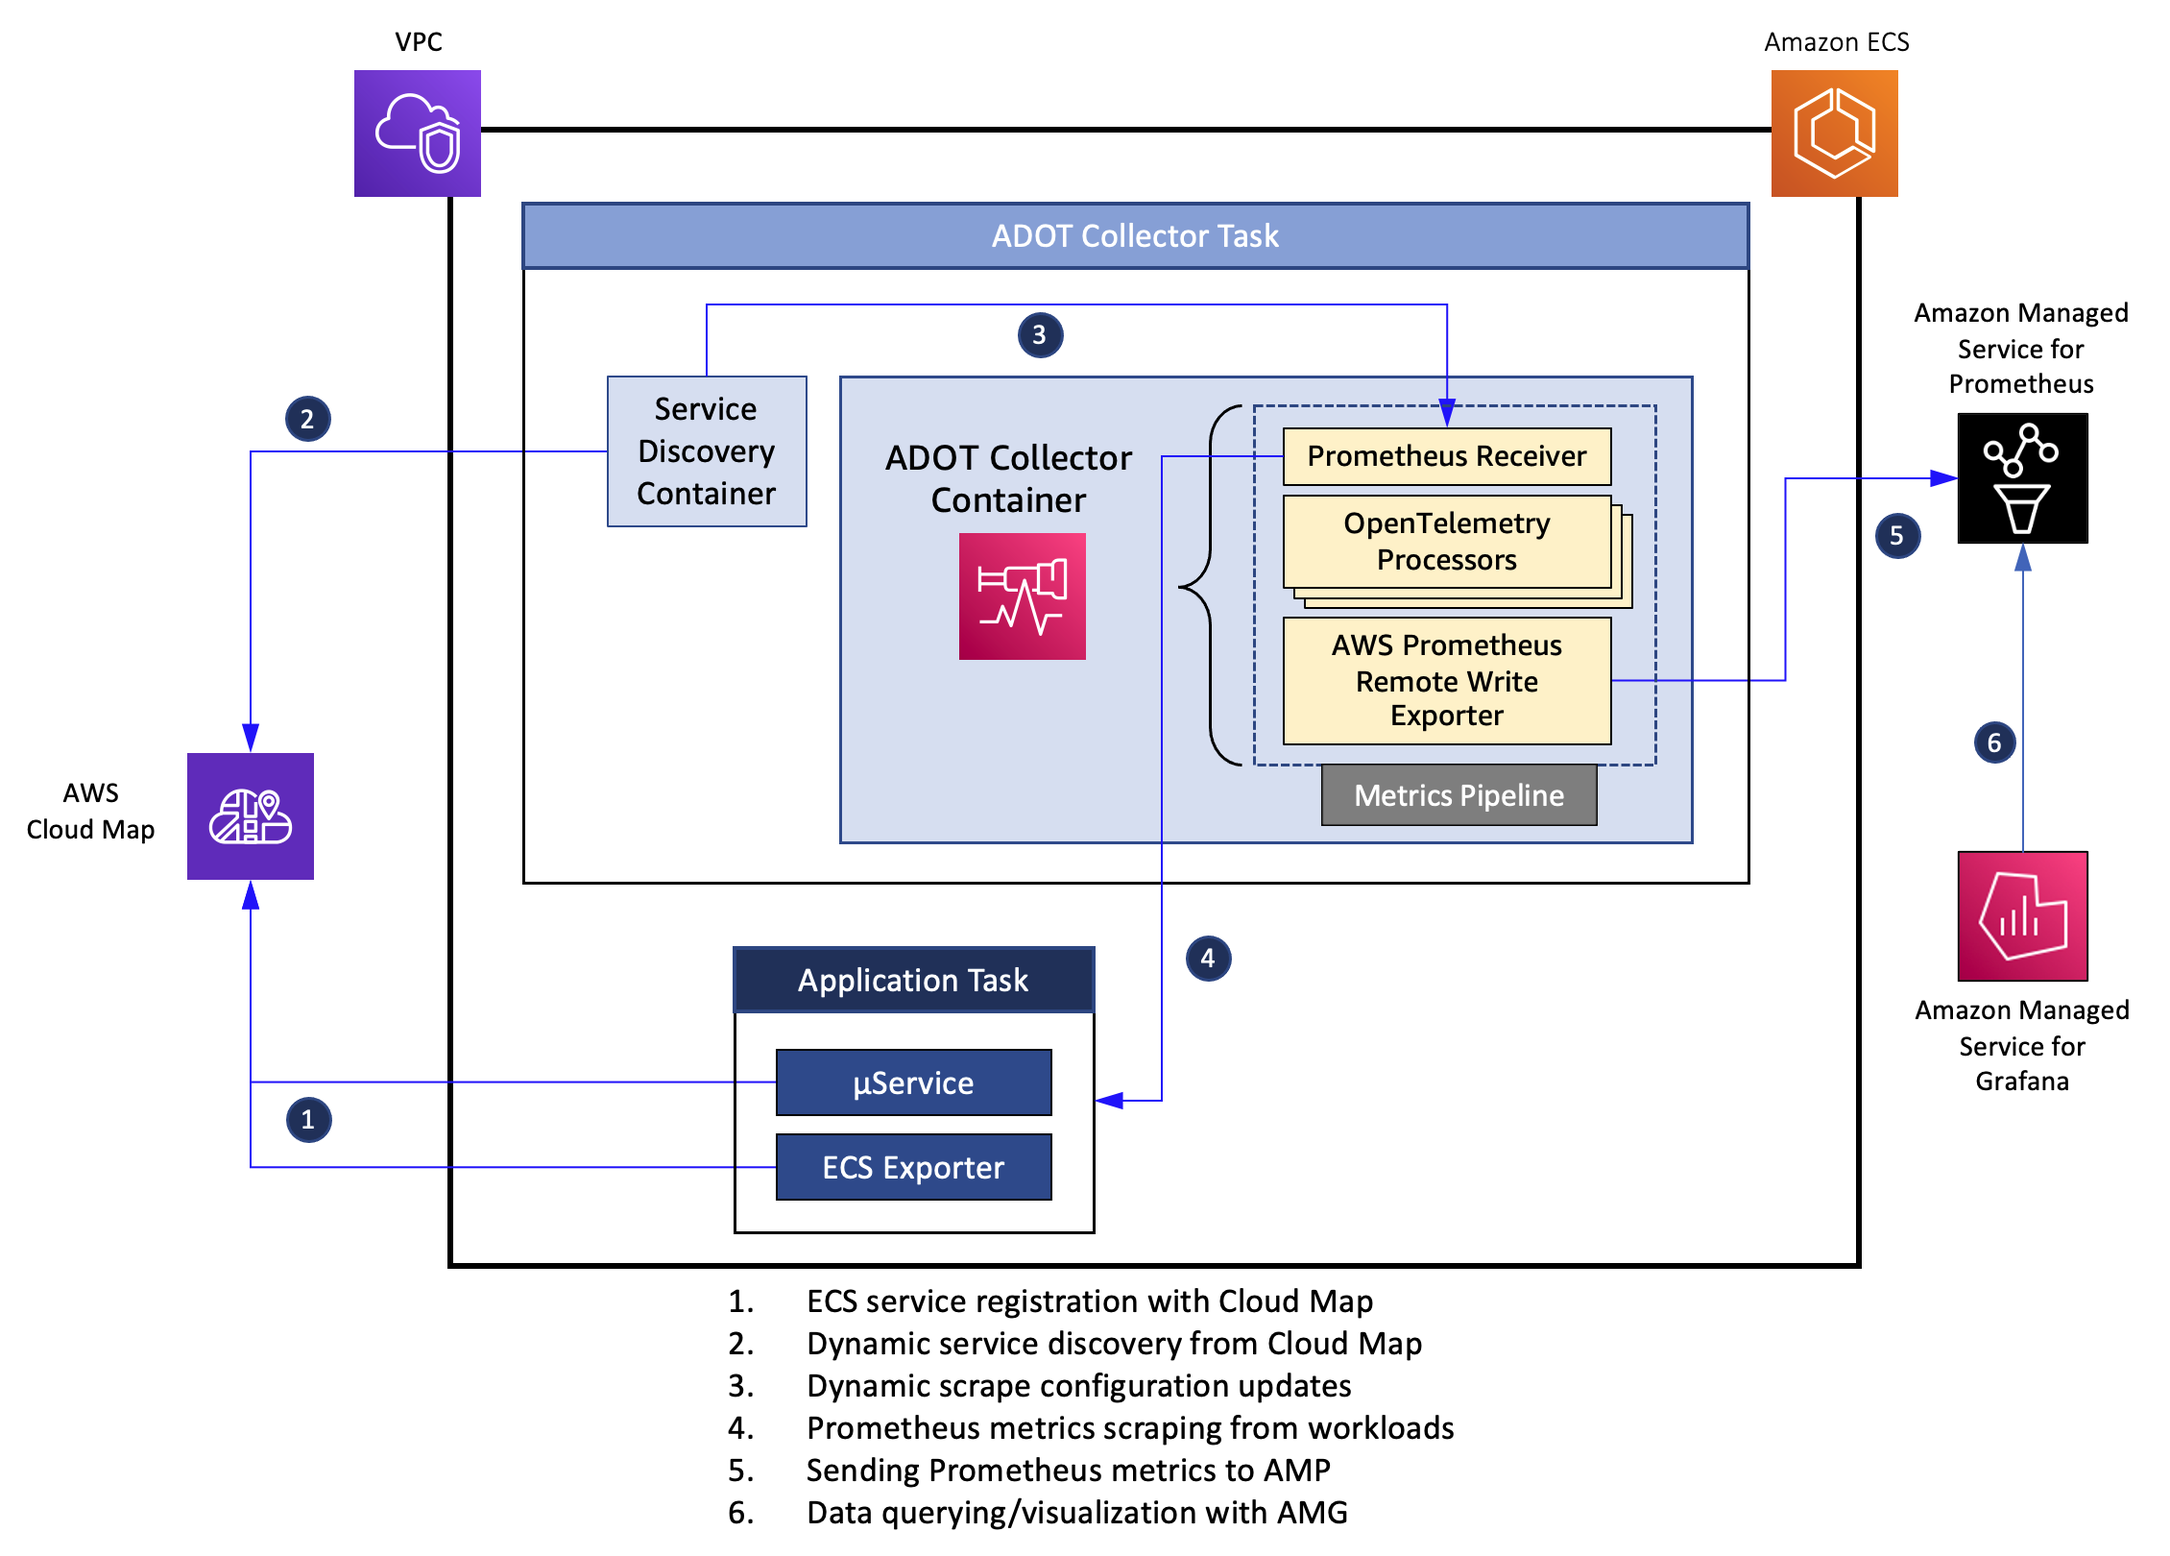
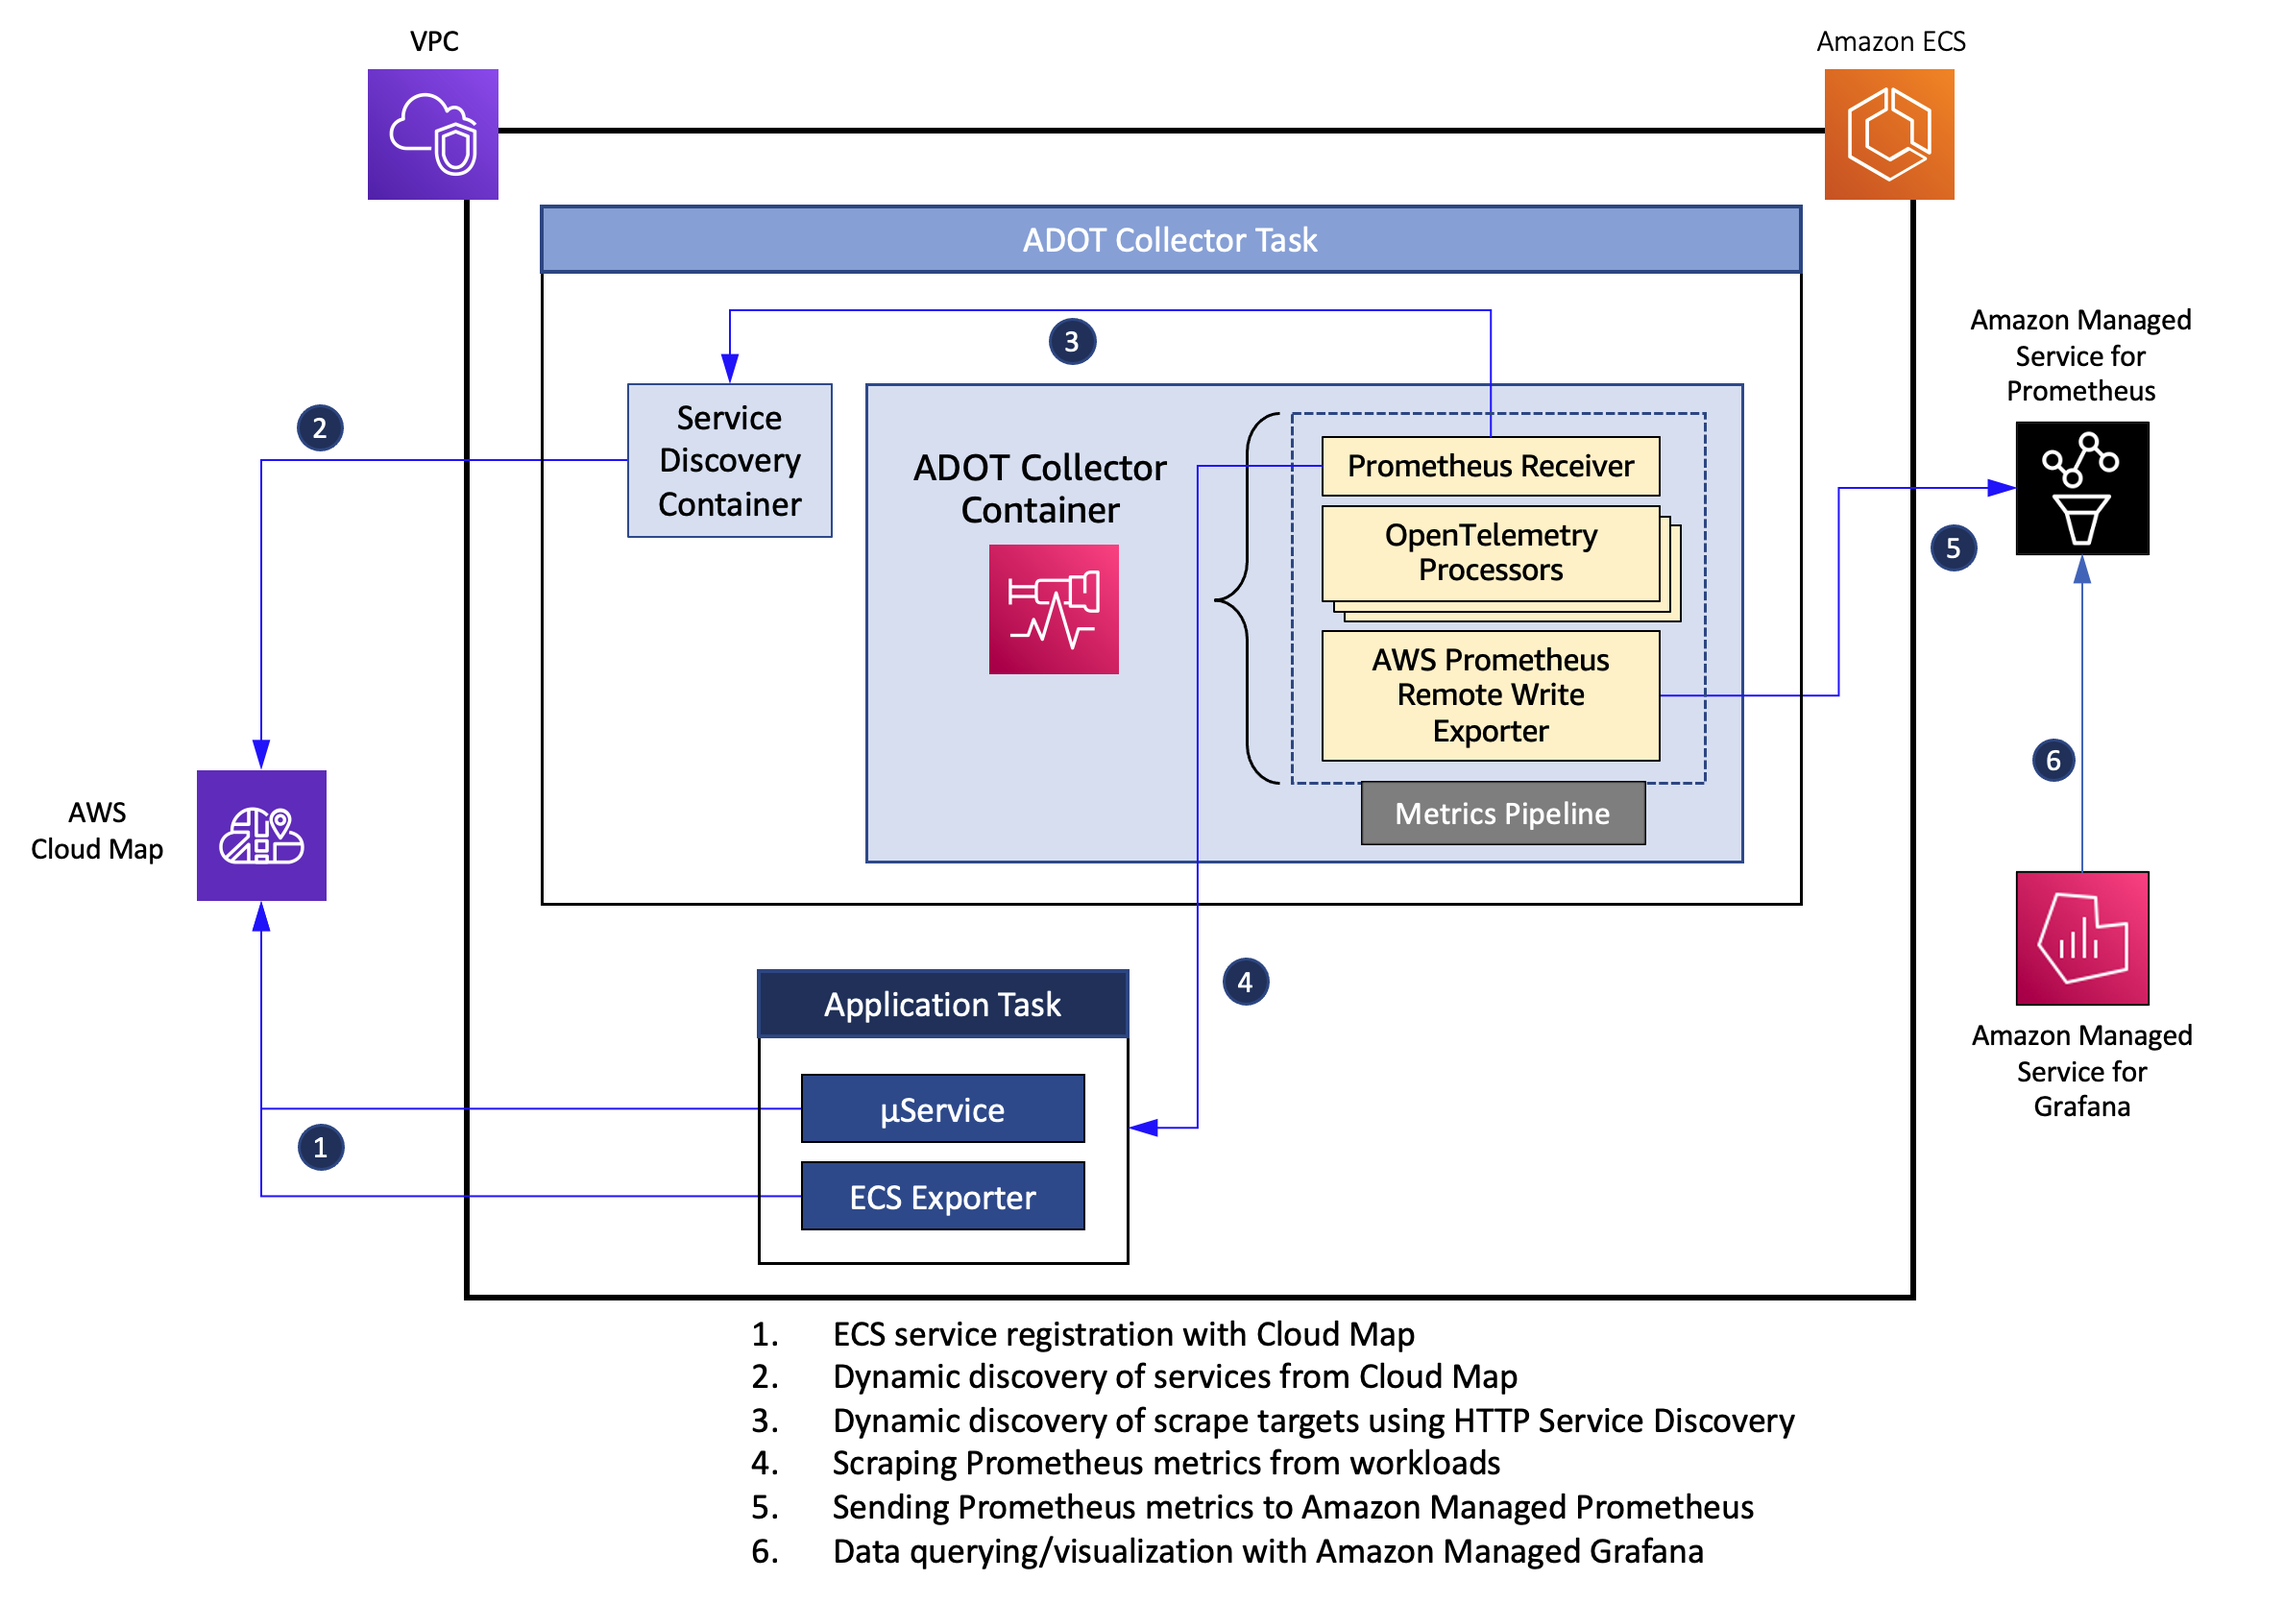
Support for HTTP Service Discovery

Changed region(s): [[0.0929, 0.0, 0.9912, 0.9877], [0.0, 0.463, 0.1549, 0.5864], [0.1239, 0.2469, 0.1549, 0.3086]]

diff --git a/cmd/main.go b/cmd/main.go
@@ -2,8 +2,10 @@ package main
 
 import (
 	"fmt"
+	"io"
 	"io/ioutil"
 	"log"
+	"net/http"
 	"os"
 	"strconv"
 	"strings"
@@ -12,12 +14,68 @@ import (
 	"github.com/aws-samples/prometheus-for-ecs/pkg/aws"
 )
 
+const (
+	TARGETS = "/prometheus-targets"
+	PORT    = 9001
+)
+
 var present bool
 var configFileDir, configReloadFrequency string
 var prometheusConfigFilePath, scrapeConfigFilePath string
 
 func main() {
-	log.Println("Prometheus configuration reloader started")
+	aws.InitializeAWSSession()
+	sdMode, present := os.LookupEnv("SERVICE_DISCOVERY_MODE")
+	if !present {
+		sdMode = "FILE_BASED"
+	}
+	if sdMode == "FILE_BASED" {
+		fileBasedSD()
+	} else if sdMode == "HTTP_BASED" {
+		httpBasedSD()
+	} else {
+		log.Printf("Invalid service discovery mode %s", sdMode)
+	}
+}
+
+func httpBasedSD() {
+	log.Println("Service discovery application started in HTTP-based mode")
+	serveMux := http.NewServeMux()
+	serveMux.HandleFunc(TARGETS, getScrapeConfig)
+
+	stopChannel := make(chan string)
+	defer close(stopChannel)
+
+	go func(doneChannel chan string) {
+		port := PORT
+		addr := fmt.Sprintf(":%d", port)
+		fmt.Printf("Started HTTP server at %s\n", addr)
+
+		server := &http.Server{
+			Addr:           addr,
+			Handler:        serveMux,
+			ReadTimeout:    10 * time.Second,
+			WriteTimeout:   10 * time.Second,
+			MaxHeaderBytes: 1 << 20,
+		}
+		server.SetKeepAlivesEnabled(true)
+		log.Fatal(server.ListenAndServe())
+		doneChannel <- "HTTP server terminated abnormally"
+	}(stopChannel)
+
+	fmt.Println("Waiting for all goroutines to complete")
+
+	for {
+		select {
+		case status := <-stopChannel:
+			fmt.Println(status)
+			break
+		}
+	}
+}
+
+func fileBasedSD() {
+	log.Println("Service discovery application started in file-based mode")
 	aws.InitializeAWSSession()
 
 	configFileDir, present = os.LookupEnv("CONFIG_FILE_DIR")
@@ -96,6 +154,20 @@ func initScrapeTargetConfig() {
 }
 
 func reloadScrapeConfig() {
+	scrapConfig := buildSrapeConfig()
+	err := ioutil.WriteFile(scrapeConfigFilePath, []byte(*scrapConfig), 0644)
+	if err != nil {
+		log.Println(err)
+	}
+}
+
+func getScrapeConfig(w http.ResponseWriter, r *http.Request) {
+	scrapConfig := buildSrapeConfig()
+	w.Header().Set("Content-Type", "application/json")
+	io.WriteString(w, *scrapConfig)
+}
+
+func buildSrapeConfig() *string {
 	discoveryNamespacesParameter, present := os.LookupEnv("DISCOVERY_NAMESPACES_PARAMETER_NAME")
 	if !present {
 		discoveryNamespacesParameter = "ECS-ServiceDiscovery-Namespaces"
@@ -103,8 +175,5 @@ func reloadScrapeConfig() {
 	namespaceList := aws.GetParameter(discoveryNamespacesParameter)
 	namespaces := strings.Split(*namespaceList, ",")
 	scrapConfig := aws.GetPrometheusScrapeConfig(namespaces)
-	err := ioutil.WriteFile(scrapeConfigFilePath, []byte(*scrapConfig), 0644)
-	if err != nil {
-		log.Println(err)
-	}
+	return scrapConfig
 }

diff --git a/deploy-adot/README.md b/deploy-adot/README.md
@@ -73,7 +73,7 @@ Launch the ECS services using the task definitions created above.
 source services.sh
 ```
 
-Once the services are all up and running, the AMP workspace will start ingesting metrics collected by the Prometheus server from the web application. Use AMG to query and visualize the metrics ingested into AMP. You may use the following PromQL queries to visualize the metrics collected from the web application and Prometheus Node Exporter
+Once the services are all up and running, the AMP workspace will start ingesting metrics collected by the ADOT Collector from the web application. Use AMG to query and visualize the metrics ingested into AMP. You may use the following PromQL queries to visualize the metrics collected from the web application and Prometheus Node Exporter
 - HTTP request rate: *sum(rate(http_requests_total[5m]))*
 - Average response latency: *(sum(rate(request_duration_milliseconds_sum[5m])) by (path,taskid))/(sum(rate(request_duration_milliseconds_count[5m])) by (path,taskid))*
 - Response latency: *sum(rate(request_duration_milliseconds_bucket{le="THRESHOLD"}[5m])) / sum(rate(request_duration_milliseconds_count[5m])) * 100*. The following are the thresholds captured: 500, 1000, 2500, 5000
